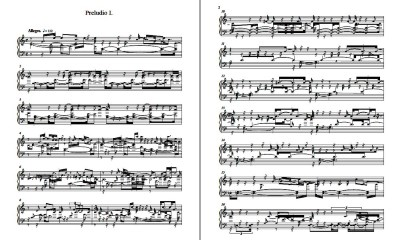
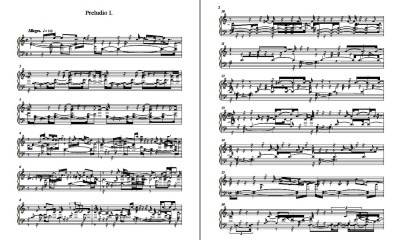
fix speed

diff --git a/cv.html b/cv.html
@@ -217,9 +217,5 @@
             copyright &copy; hyang cho
         </footer>
     </div>
-
-    <script src="Lib/jQuery/jquery.min.js"></script>
-    <script src="Lib/bootstrap/js/bootstrap.min.js"></script>
-    <script src="Scripts/site.js"></script>
 </body>
 </html>

diff --git a/contact.html b/contact.html
@@ -45,9 +45,5 @@
             copyright &copy; hyang cho
         </footer>
     </div>
-
-    <script src="Lib/jQuery/jquery.min.js"></script>
-    <script src="Lib/bootstrap/js/bootstrap.min.js"></script>
-    <script src="Scripts/site.js"></script>
 </body>
 </html>
